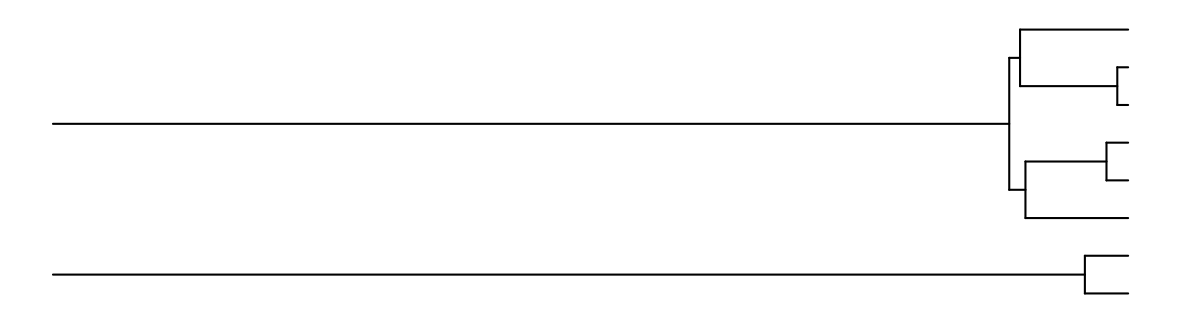
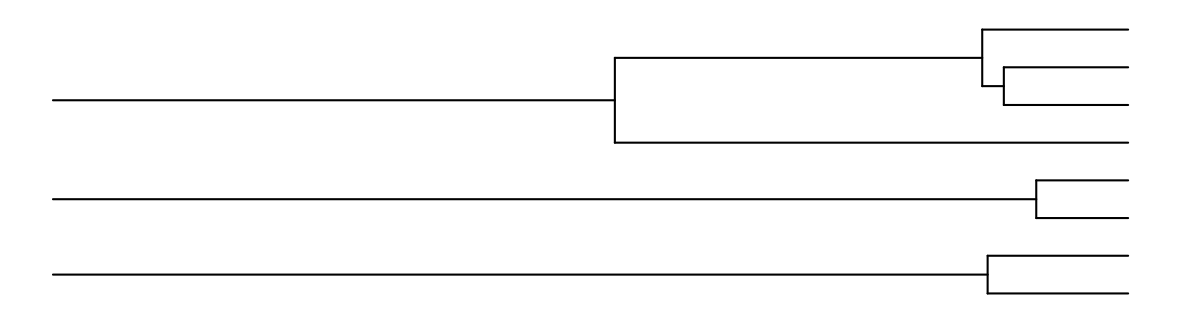
re-run and reformat README

diff --git a/README.md b/README.md
@@ -3,7 +3,7 @@ Zamin Iqbal asked on [BlueSky](https://bsky.app/profile/zaminiqbal.bsky.social/p
 
 | Exponential growth | Constant population size |
 |---|---|
-|![fig pop](figs/fullpop_exponential.png)|![fig tree](figs/tree_exponential.png)|
-|![fig pop](figs/fullpop_constant.png)|![fig tree](figs/tree_constant.png)|
+|![fig pop](figs/fullpop_exponential.png)|![fig tree](figs/fullpop_constant.png)|
+|![fig pop](figs/tree_exponential.png)|![fig tree](figs/tree_constant.png)|
 
 (The size of the population is the average size of the population under exponential growth)
